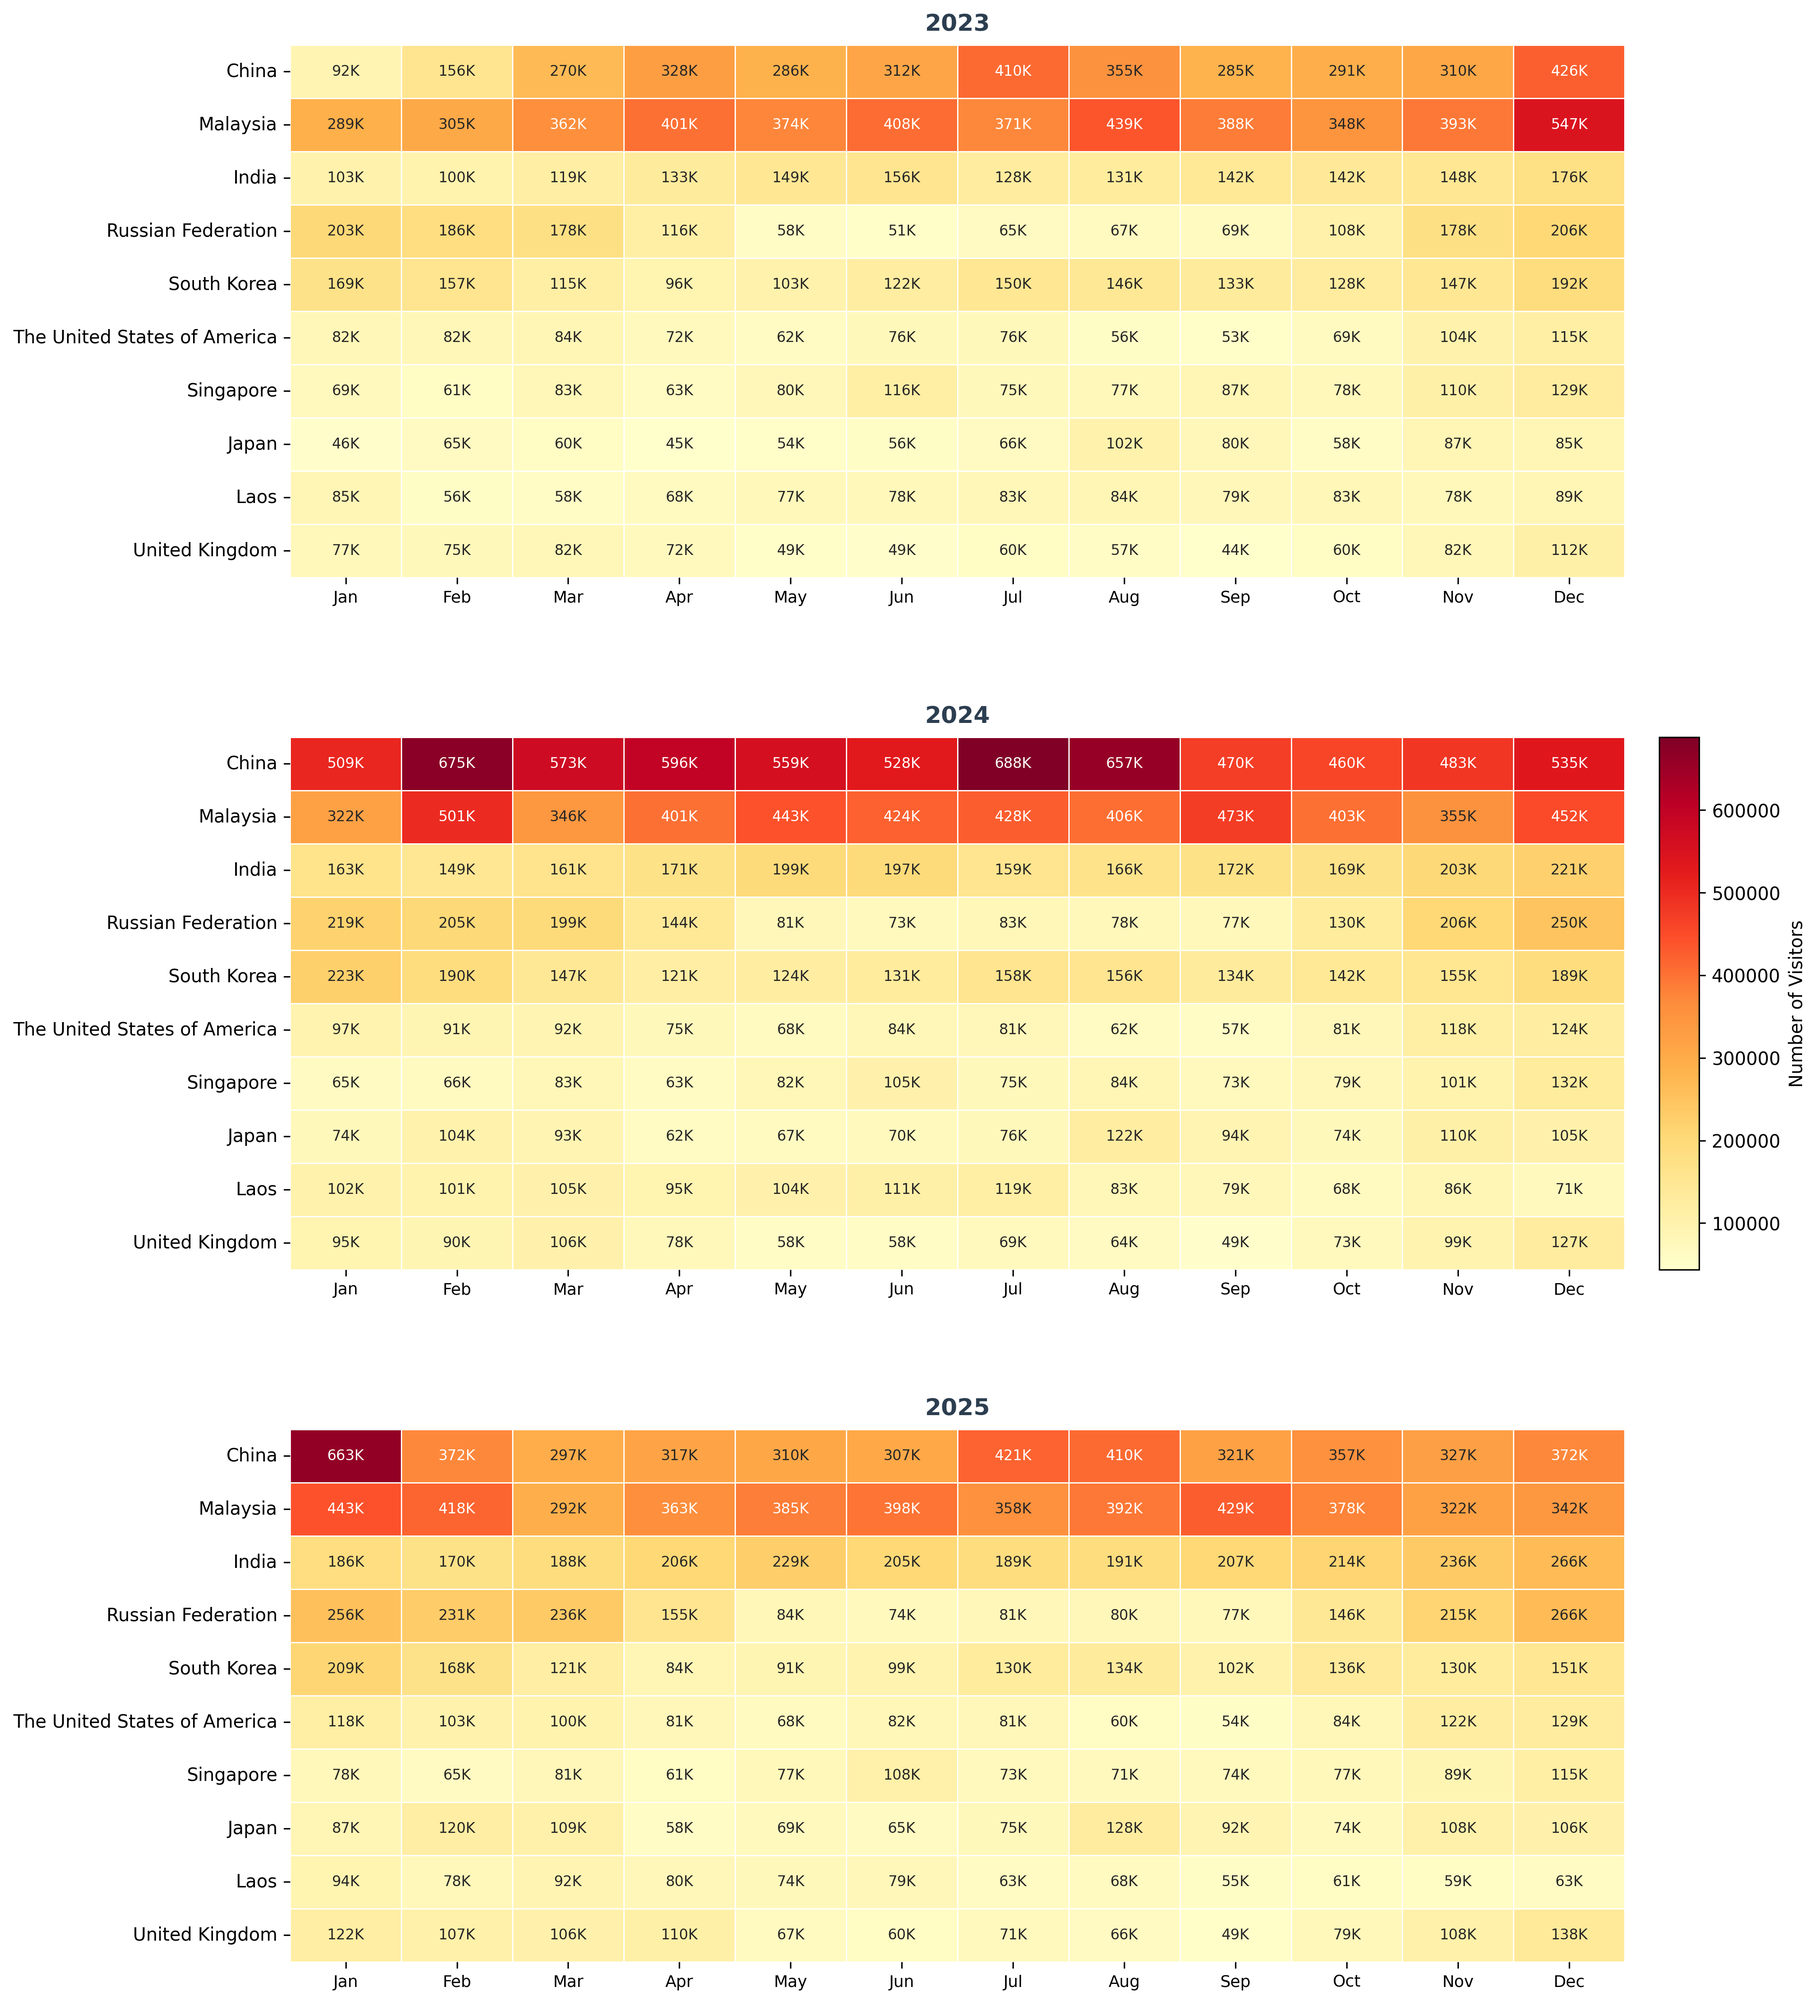
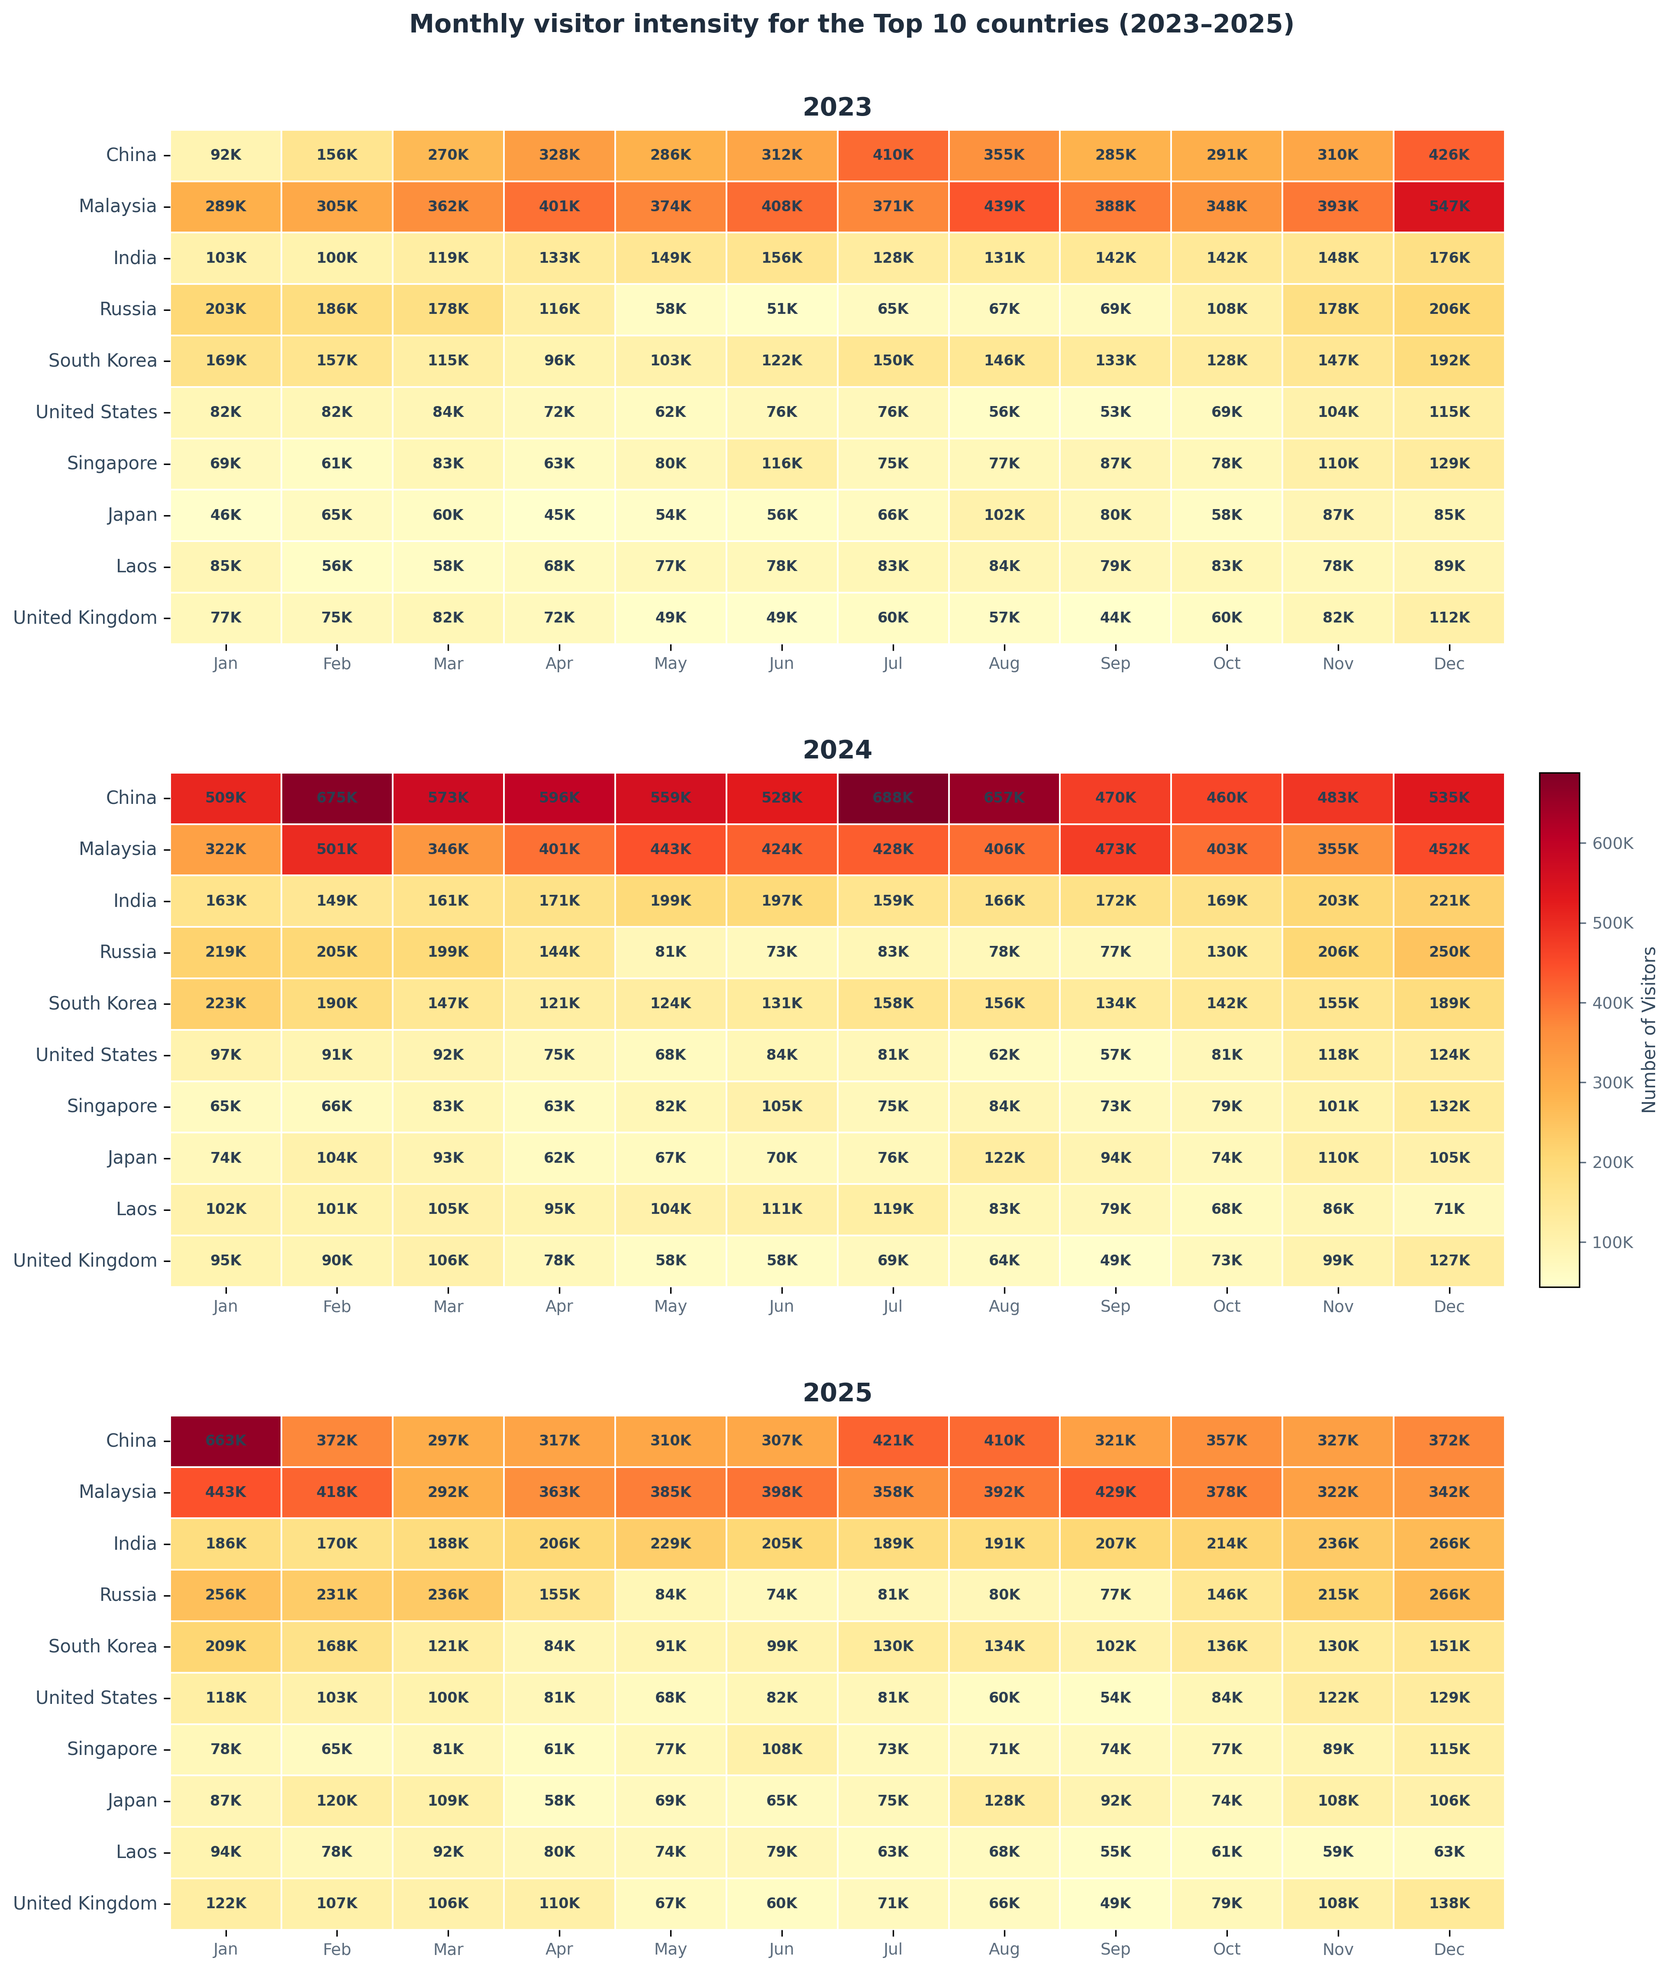
Update visualization scripts and figures

diff --git a/visualizations/09_B.py b/visualizations/09_B.py
@@ -1,42 +1,52 @@
-# Created by Pimkanit – Heatmap: Top 10 Countries Monthly Foreign Visitors (2023–2025)
-
 import pandas as pd
 import matplotlib.pyplot as plt
-import matplotlib.ticker as mticker
 import seaborn as sns
 import numpy as np
 import os
+import matplotlib.ticker as mticker
 
 # ─── Style ────────────────────────────────────────────────────────────────────
 plt.rcParams.update({
     'figure.facecolor': 'white',
+    'axes.facecolor':   '#F8F9FA',
     'font.family':      'sans-serif',
 })
 
 # ─── Data ─────────────────────────────────────────────────────────────────────
 df = pd.read_csv('data/processed/foreign_visitors_combined.csv')
 df.columns = df.columns.str.strip()
+
 if 'ne year' in df.columns:
     df.rename(columns={'ne year': 'year'}, inplace=True)
-df['country'] = df['country'].replace('Korea (Republic of)', 'South Korea')
+
+# Clean country names
+df['country'] = df['country'].replace({
+    'Korea (Republic of)': 'South Korea',
+    'Russian Federation': 'Russia',
+    'The United States of America': 'United States',
+    'United States of America': 'United States'
+})
+
 ind = df[df['is_aggregate'] == False].copy()
 
-# Top 10 countries by total visitors
+# Top 10 countries
 top10 = (ind.groupby('country')['visitors'].sum()
-         .sort_values(ascending=False).head(10).index.tolist())
+         .sort_values(ascending=False)
+         .head(10)
+         .index.tolist())
 
-# Build pivot: country × month_year
+# Pivot table
 heat = (ind[ind['country'].isin(top10)]
         .groupby(['country', 'month_year'])['visitors'].sum()
         .reset_index()
         .pivot(index='country', columns='month_year', values='visitors')
         .fillna(0))
 
-# Sort months chronologically Jan-2023 → Dec-2025
+# Sort months
 month_order = []
 for y in [2023, 2024, 2025]:
-    for m in ['Jan', 'Feb', 'Mar', 'Apr', 'May', 'Jun',
-              'Jul', 'Aug', 'Sep', 'Oct', 'Nov', 'Dec']:
+    for m in ['Jan','Feb','Mar','Apr','May','Jun',
+              'Jul','Aug','Sep','Oct','Nov','Dec']:
         label = f'{m}-{y}'
         if label in heat.columns:
             month_order.append(label)
@@ -44,50 +54,109 @@ for y in [2023, 2024, 2025]:
 heat = heat[month_order]
 heat = heat.reindex(top10)
 
-# ─── Plot: 3 Heatmaps stacked vertically (one per year) ──────────────────────
-months_short = ['Jan', 'Feb', 'Mar', 'Apr', 'May', 'Jun',
-                'Jul', 'Aug', 'Sep', 'Oct', 'Nov', 'Dec']
-
+# ─── Plot ─────────────────────────────────────────────────────────────────────
 from matplotlib.gridspec import GridSpec
 
 fig = plt.figure(figsize=(14, 18))
-gs = GridSpec(3, 2, figure=fig, width_ratios=[1, 0.03], hspace=0.3, wspace=0.05)
+gs = GridSpec(3, 2, figure=fig, width_ratios=[1, 0.03], hspace=0.25, wspace=0.05)
 
-# Global vmin/vmax for consistent color scale
 vmin = heat.values.min()
 vmax = heat.values.max()
 
-axes = []
+months_short = ['Jan','Feb','Mar','Apr','May','Jun',
+                'Jul','Aug','Sep','Oct','Nov','Dec']
+
 for idx, yr in enumerate([2023, 2024, 2025]):
     ax = fig.add_subplot(gs[idx, 0])
-    axes.append(ax)
+
     cols = [f'{m}-{yr}' for m in months_short if f'{m}-{yr}' in heat.columns]
     data_yr = heat[cols]
 
-    # Format values as xxK
     annot_data = data_yr.map(lambda x: f'{x/1e3:.0f}K' if x >= 1e3 else f'{x:.0f}')
 
-    sns.heatmap(data_yr, ax=ax, cmap='YlOrRd', linewidths=0.3, linecolor='white',
-                annot=annot_data, fmt='', annot_kws={'fontsize': 8},
-                vmin=vmin, vmax=vmax,
-                cbar=False)
+    sns.heatmap(
+        data_yr,
+        ax=ax,
+        cmap='YlOrRd',
+        linewidths=0.5,
+        linecolor='#FFFFFF',
+        annot=annot_data,
+        fmt='',
+        annot_kws={
+            'fontsize': 8,
+            'color': '#2C3E50',
+            'fontweight': 'bold'
+        },
+        vmin=vmin,
+        vmax=vmax,
+        cbar=False
+    )
 
-    # Show only month names (without year) on x-axis
-    ax.set_xticklabels([c.split('-')[0] for c in cols], rotation=0, ha='center', fontsize=9)
-    ax.set_yticklabels(ax.get_yticklabels(), fontsize=10)
+    # X-axis
+    ax.set_xticklabels(
+        [c.split('-')[0] for c in cols],
+        rotation=0,
+        ha='center',
+        fontsize=9,
+        color='#5D6D7E'
+    )
+
+    # Y-axis
+    ax.set_yticklabels(
+        ax.get_yticklabels(),
+        fontsize=10,
+        color='#34495E'
+    )
+
     ax.set_xlabel('')
     ax.set_ylabel('')
-    ax.set_title(str(yr), fontsize=13, fontweight='bold', color='#2C3E50', pad=8)
 
-# Shared colorbar in the middle row's right column
+    # Year title
+    ax.set_title(
+        str(yr),
+        fontsize=14,
+        fontweight='bold',
+        color='#1F2D3D',
+        pad=8
+    )
+
+# ─── Colorbar ─────────────────────────────────────────────────────────────────
 cbar_ax = fig.add_subplot(gs[1, 1])
-sm = plt.cm.ScalarMappable(cmap='YlOrRd', norm=plt.Normalize(vmin=vmin, vmax=vmax))
+sm = plt.cm.ScalarMappable(
+    cmap='YlOrRd',
+    norm=plt.Normalize(vmin=vmin, vmax=vmax)
+)
 sm.set_array([])
-fig.colorbar(sm, cax=cbar_ax, label='Number of Visitors')
 
+cbar = fig.colorbar(sm, cax=cbar_ax)
 
-plt.subplots_adjust(top=0.93)
+# ✅ Format to XXK
+cbar.ax.yaxis.set_major_formatter(
+    mticker.FuncFormatter(lambda x, _: f'{int(x/1e3)}K')
+)
+
+cbar.ax.tick_params(labelsize=9, colors='#5D6D7E')
+cbar.set_label('Number of Visitors', fontsize=10, color='#34495E')
+
+# ─── Title (tight spacing only) ───────────────────────────────────────────────
+fig.suptitle(
+    'Monthly visitor intensity for the Top 10 countries (2023–2025)',
+    fontsize=14,
+    fontweight='bold',
+    color='#1F2D3D',
+    y=0.93
+)
+
+# Layout
+plt.tight_layout(rect=[0, 0, 1, 0.96])
+
+# Save
 os.makedirs('visualizations', exist_ok=True)
-fig.savefig('visualizations/Figure_9B_Heatmap_Foreign_Visitors.png', dpi=300, bbox_inches='tight')
+fig.savefig(
+    'visualizations/Figure_9B_Heatmap_Foreign_Visitors.png',
+    dpi=300,
+    bbox_inches='tight'
+)
+
 plt.show()
 print('✓ Saved: visualizations/Figure_9B_Heatmap_Foreign_Visitors.png')

diff --git a/visualizations/09_A.py b/visualizations/09_A.py
@@ -11,8 +11,8 @@ plt.rcParams.update({
     'figure.facecolor': 'white',
     'axes.facecolor':   '#F8F9FA',
     'axes.grid':        True,
-    'grid.color':       '#FFFFFF',
-    'grid.linewidth':   1.2,
+    'grid.color':       '#EAECEE',   # ✅ softer grid
+    'grid.linewidth':   1.0,
     'font.family':      'sans-serif',
     'axes.spines.top':  False,
     'axes.spines.right': False,
@@ -30,14 +30,27 @@ def fmt(x):
 # ─── Data ─────────────────────────────────────────────────────────────────────
 df = pd.read_csv('data/processed/foreign_visitors_combined.csv')
 df.columns = df.columns.str.strip()
+
+# Fix column typo if exists
 if 'ne year' in df.columns:
     df.rename(columns={'ne year': 'year'}, inplace=True)
-df['country'] = df['country'].replace('Korea (Republic of)', 'South Korea')
+
+# Clean country names
+df['country'] = df['country'].replace({
+    'Korea (Republic of)': 'South Korea',
+    'Russian Federation': 'Russia',
+    'The United States of America': 'United States',
+    'United States of America': 'United States'
+})
+
+# Filter non-aggregate rows
 ind = df[df['is_aggregate'] == False].copy()
 
 # Top 10 countries by total visitors across all 3 years
 top10 = (ind.groupby('country')['visitors'].sum()
-         .sort_values(ascending=False).head(10).index.tolist())
+         .sort_values(ascending=False)
+         .head(10)
+         .index.tolist())
 
 # Yearly breakdown for top 10
 yearly = (ind[ind['country'].isin(top10)]
@@ -45,7 +58,7 @@ yearly = (ind[ind['country'].isin(top10)]
           .unstack(fill_value=0)
           .reindex(top10))
 
-# ─── Plot: Grouped Horizontal Bar ────────────────────────────────────────────
+# ─── Plot ─────────────────────────────────────────────────────────────────────
 fig, ax = plt.subplots(figsize=(14, 8))
 
 years = sorted(yearly.columns)
@@ -58,26 +71,70 @@ ax.set_axisbelow(True)
 for i, yr in enumerate(years):
     vals = yearly[yr].values
     offset = (i - 1) * (bar_h + 0.02)
-    bars = ax.barh(y_pos - offset, vals, bar_h,
-                   label=str(yr), color=YEAR_COLORS[yr],
-                   edgecolor='none', linewidth=0)
-    for j, v in enumerate(vals):
-        ax.text(v + yearly.values.max() * 0.008, y_pos[j] - offset,
-                fmt(v), va='center', ha='left', fontsize=7.5,
-                fontweight='bold', color='#2C3E50')
 
+    ax.barh(
+        y_pos - offset,
+        vals,
+        bar_h,
+        label=str(yr),
+        color=YEAR_COLORS[yr],
+        edgecolor='none'
+    )
+
+    # Value labels
+    for j, v in enumerate(vals):
+        ax.text(
+            v + yearly.values.max() * 0.008,
+            y_pos[j] - offset,
+            fmt(v),
+            va='center',
+            ha='left',
+            fontsize=8,
+            fontweight='bold',
+            color='#2C3E50'
+        )
+
+# Y-axis
 ax.set_yticks(y_pos)
-ax.set_yticklabels(top10, fontsize=11)
+ax.set_yticklabels(top10, fontsize=10, color='#34495E')
 ax.invert_yaxis()
+
+# X-axis
 ax.xaxis.set_major_formatter(mticker.FuncFormatter(lambda x, _: fmt(x)))
+ax.tick_params(axis='x', labelsize=9, colors='#5D6D7E')
 ax.set_xlim(0, yearly.values.max() * 1.15)
 
+# Axis label (optional but recommended)
+ax.set_xlabel('Number of Visitors', fontsize=10, color='#34495E', labelpad=8)
 
+# Title
+ax.set_title(
+    'Annual breakdown of the Top 10 source countries (2023–2025)',
+    fontsize=12,
+    fontweight='bold',
+    color='#1F2D3D',
+    pad=10
+)
 
-ax.legend(loc='lower right', fontsize=11, framealpha=0.9, title='Year', title_fontsize=11)
+# Legend
+ax.legend(
+    loc='lower right',
+    fontsize=9,
+    framealpha=0.9,
+    title='Year',
+    title_fontsize=10
+)
 
-plt.tight_layout(rect=[0, 0, 1, 0.95])
+# Layout
+plt.tight_layout()
+
+# Save
 os.makedirs('visualizations', exist_ok=True)
-fig.savefig('visualizations/Figure_9A_Top10_Foreigners.png', dpi=300, bbox_inches='tight')
+fig.savefig(
+    'visualizations/Figure_9A_Top10_Foreigners.png',
+    dpi=300,
+    bbox_inches='tight'
+)
+
 plt.show()
 print('✓ Saved: visualizations/Figure_9A_Top10_Foreigners.png')
